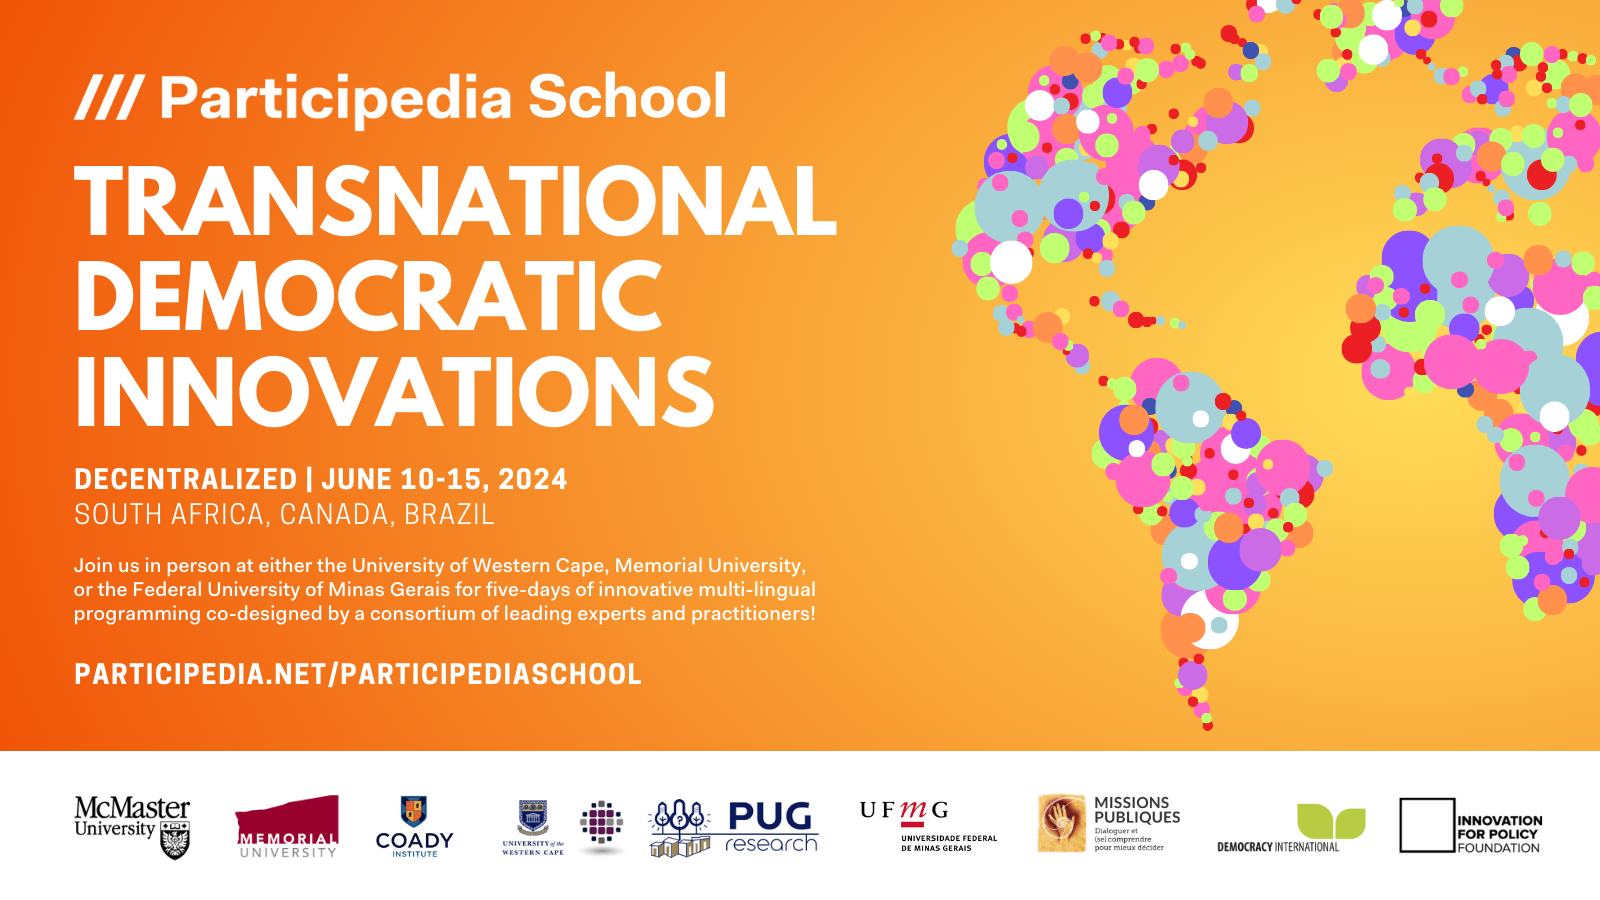
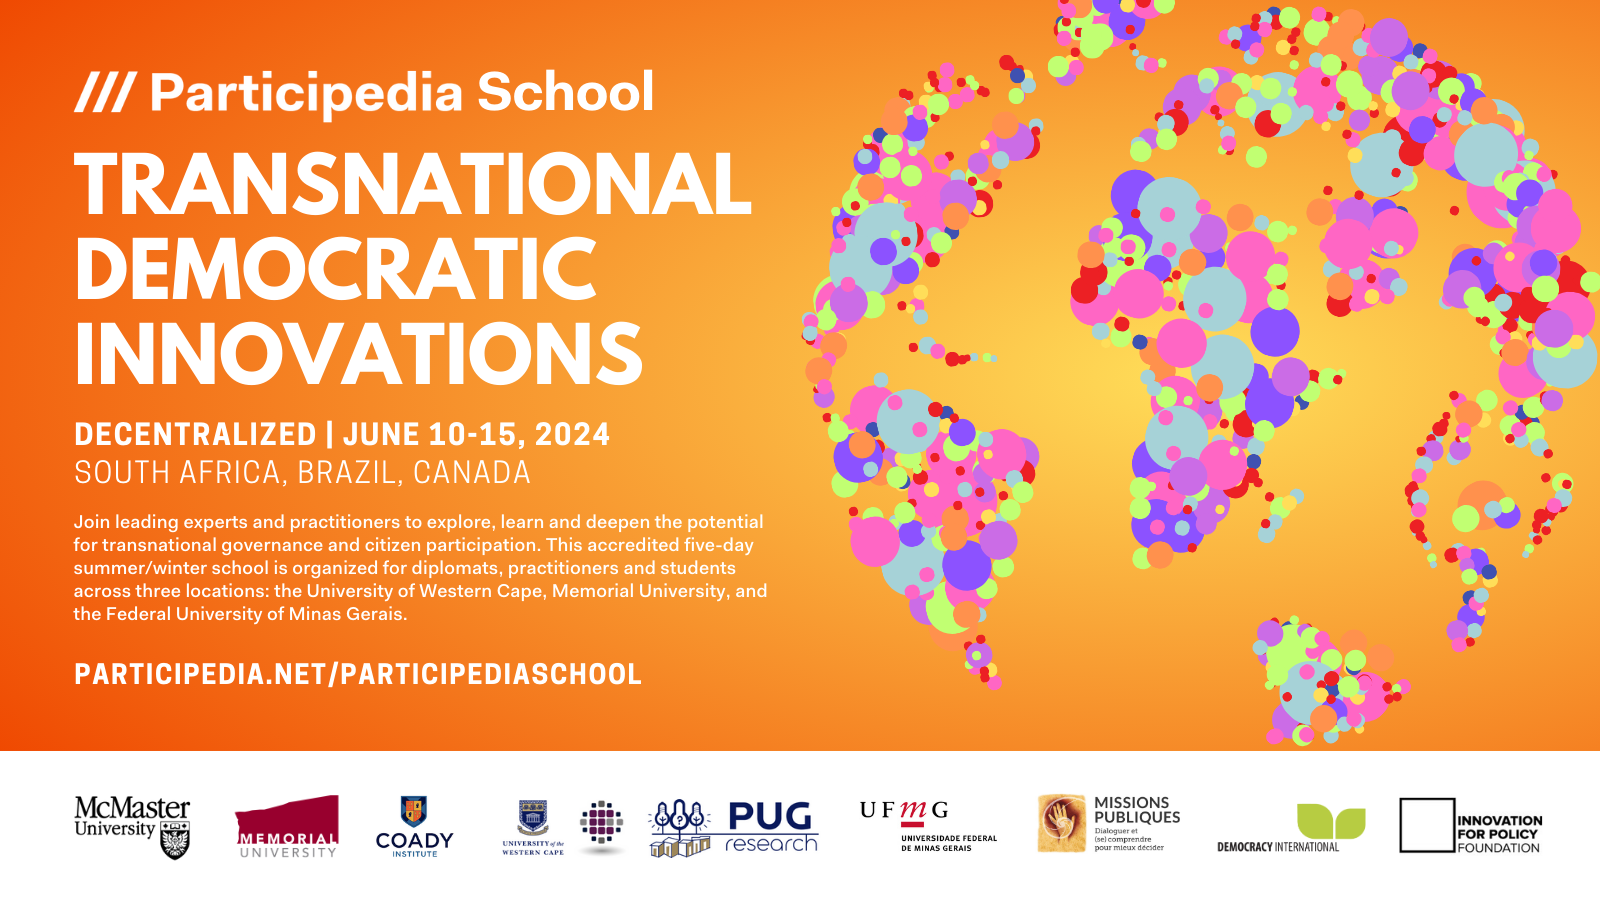
update the participedia school

diff --git a/views/school-view.html b/views/school-view.html
@@ -8,38 +8,39 @@
 
 <h2>2024 Participedia School on Transnational Democratic Innovations</h2>
 
-<p>The landscape of transnational public participation is rapidly changing, with new developments, theories, movements, policies, and successes happening all over the globe. The entangled challenges facing us extend beyond national boundaries, and so do their democratic solutions. Now, more than ever, we need to convene on and acquire the skills necessary to participate in and learn from, transnational democratic innovations.</p>
+<p>The landscape of transnational public participation - the involvement of individuals or groups from multiple countries in political processes, decision-making, design, or advocacy that transcend national borders or issues - is rapidly changing. There are new innovations, theories, movements, policies, and successes happening around the world. The entangled challenges facing us extend beyond national boundaries, and so do their democratic solutions.</p>
 
-<p>In partnership with Memorial University, the University of Western Cape, McMaster University, the Coady Institute, Federal University of Minas Gerais, Innovation For Policy Foundation, Mission Publiques and a consortium of leading practitioners and scholars, join us for the next Participedia School to learn about these rich tapestries of innovations, and to develop the skills necessary to analyze, co-design, and implement the transnational public participation of the future!</p>
+<p>These new transnational processes, methods, and tools are seeing uptake, whether through global deliberative mini-publics and transnational deliberative organizational designs, to, digital infrastructures and methods of connected participation, research, engagement, and coalition building. Now, more than ever, we need to convene on, share, hear from those with experience, and acquire the skills to respond to, learn from, identify, research, and design transnational democratic innovations.</p>
 
-<p>The event will take place in person on June 10-15, 2024 at both Memorial University (St. John’s, Canada) and the University of Western Cape (Cape Town, South Africa) simultaneously, while offering unique virtual two-way programming at the Federal University of Minas Gerais (Belo Horizonte, Brazil) to maximize accessibility and impact. Using this global decentralized approach, we hope to create a transnational ecosystem of learning that reflects the subject, connecting students and practitioners from around the world with each other and leading experts.</p>
+<p>In partnership with Memorial University, the University of Western Cape, McMaster University, the Coady Institute, Federal University of Minas Gerais, Innovation for Policy Foundation, Mission Publiques, Democracy International, and a consortium of leading practitioners and scholars, join us for the next Participedia School on Transnational Democratic Innovations!</p>
 
-<p>Participants can register to attend either in person location, Newfoundland or Cape Town, or for the live-streamed programming hosted at UFMG, until spots are filled. Limited scholarships are available on a ‘needs basis’ to cover registration, travel, and housing. All food and drink will be provided to attendees.</p>
+<p>The event will take place in person on June 10-15, 2024 simultaneously at three decentralized locations: Memorial University (St. John’s, Canada), the University of Western Cape (Cape Town, South Africa), and the Federal University of Minas Gerais (Belo Horizonte, Brazil). The Brazil experience will primarily take place in Spanish/Portuguese, and the three locations will be connected by unique virtual programming with live translation to maximize accessibility and impact. Using this globally decentralized approach, we hope to create a transnational ecosystem of learning that reflects the subject, connecting students and practitioners from around the world with each other and leading experts.</p>
 
+<p>Participants can register to attend in person at all locations until spots are filled (50 spaces per campus). Limited scholarships are available on a ‘needs basis’ to cover registration, travel, and housing. All food and drink will be provided to attendees.</p>
 <h3>The Participedia School will offer:</h3>
 <ol>
   <li>
     <p>
-      <strong>Accredited Skills Training: </strong>
-      support an exchange of learnings between practitioners, students, and scholars under a guided curriculum that leads to skill and field development recognized through a Coady Institute certificate. University credit may be available at your home institution, contact us for more information.
+      <strong>Accredited skills training: </strong>
+      Support an exchange of learnings between practitioners, students, and scholars under a guided curriculum that leads to skill and field development recognized with a certificate of participation from the Coady Institute. University credit may be available at your home institution, contact us for more information.
     </p>
   </li>
   <li>
     <p>
       <strong>Interdisciplinary, intersectional, and international exchange: </strong>
-      provide opportunity for practitioners, students and scholars to engage with experiences, peoples, and ideas from around the world in a collaborative framework that will lead to new research questions, policy approaches, and partnerships.
+      Provide opportunity for practitioners, students and scholars to engage with experiences, peoples, and ideas from around the world in a collaborative framework that will lead to new research questions, policy approaches, and partnerships.
     </p>
   </li>
   <li>
     <p>
       <strong>Knowledge sharing, transfer, and collaboration: </strong>
-      explore cutting-edge theories, research, and experience-informed learnings on transnational democratic innovations through problem solving and co-design.
+      Explore cutting-edge theories, research, and experience-informed learnings on transnational democratic innovations through problem solving and co-design.
     </p>
   </li>
   <li>
     <p>
       <strong>Knowledge synthesis and dissemination: </strong>
-      build awareness and knowledge amongst the staff of international organizations, diplomats, transnational civil society, activists and university students about the theory and practice of transnational democracy, synthesizing learnings in an open-access publication.
+      Build awareness and knowledge amongst the staff of international organizations, diplomats, transnational civil society, activists and university students about the theory and practice of transnational democracy, synthesizing learnings in an open-access publication.
     </p>
   </li>
 </ol>
@@ -54,13 +55,35 @@
   <strong>Who: </strong>
   Professionals whose work can be enhanced by deepening participation across borders and applying transnational participatory practices; civil society practitioners, advocates, and networks whose impact can be enhanced by strategic participation in, and the ability to create, design, and foster transnational democratic innovations; and higher education students interested in the theory and practice of democracy across borders.
 </p>
-
-<h3>
+<h3 class="u-margin-top--small">
+  Fee Schedule:
+</h3>
+<p>Memorial University in St. John's Newfoundland, Canada</p>
+<ui>
+  <li class="u-margin-left--small">Language: English (Primary)</li>
+  <li class="u-margin-left--small">Practitioners fee: $800 CDN</li>
+  <li class="u-margin-left--small">Students fee: $800 CDN</li>
+</ui>
+<p>University of Western Cape in Cape Town, South Africa</p>
+<ui>
+  <li class="u-margin-left--small">Language: English (Primary)</li>
+  <li class="u-margin-left--small">Practitioners fee: $800 CDN</li>
+  <li class="u-margin-left--small">Students fee: $800 CDN</li>
+</ui>
+<p>Federal University of Minas Gerais in Belo Horizonte, Brazil</p>
+<ui>
+  <li class="u-margin-left--small">Language: Spanish/Portuguese (Primary)</li>
+  <li class="u-margin-left--small">Practitioners fee: $400 CDN</li>
+  <li class="u-margin-left--small">Students fee: $0 CDN</li>
+</ui>
+<h3 class="u-margin-top--small">
   To Register: 
 </h3>
-<a href="#" class="button button-dark-grey" rel="noopener">
-  Launching in December 2023
+<a href="https://www.surveymonkey.com/r/participediaschool2024" class="button button-dark-grey" target="_blank" rel="noopener">
+  Register Here
 </a>
+- <a href="https://www.surveymonkey.com/r/participediaschool2024" target="_blank" rel="noopener">https://www.surveymonkey.com/r/participediaschool2024</a>
+<p>Once registered, you will be emailed a secure payment processing link and further information regarding funding and next steps. Please note that our registration cap is 50 people per location, sign up early to secure your spot.</p>
 <p>If you have any questions please contact <a href="mailto:info@participedia.net">info@participedia.net</a></p>
 
 <div class="divider u-margin-top--small"></div>
